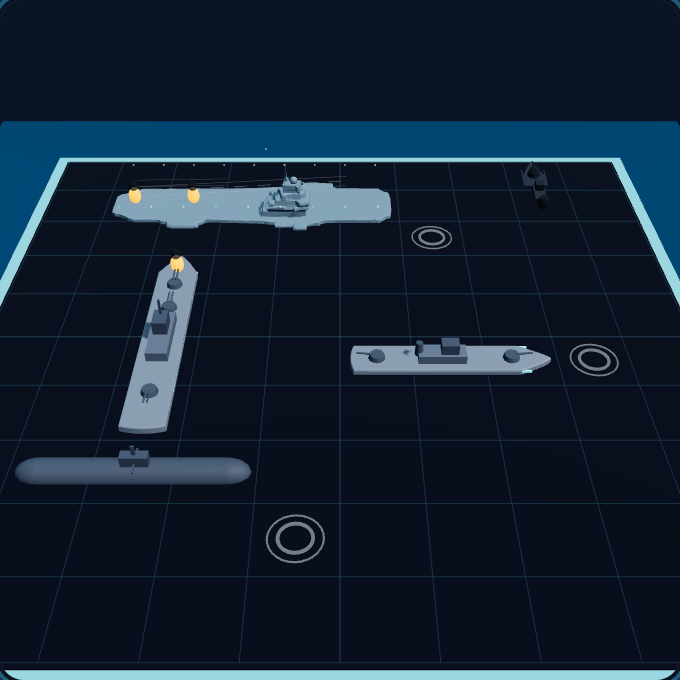
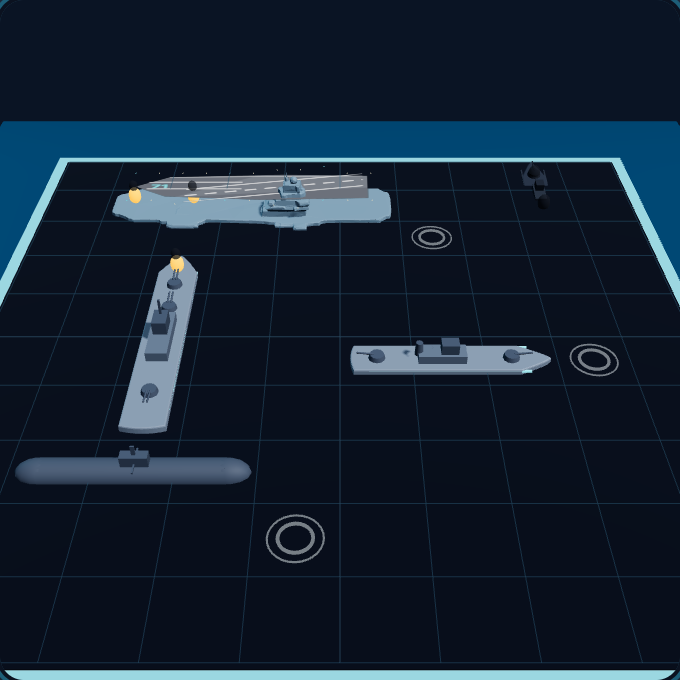
feat(battleship): dark non-skid deck, and lights that land on the hull
Matches references/carrier-modern-top.png: the flight deck is near-black
non-skid, not bare metal, and only the catwalks and island stay haze grey.
From the battle camera the deck is most of what you see, so the paint is
what makes it read as a carrier rather than a pale slab — angled landing
area, dashed centreline with solid edge lines, bow catapult tracks, and the
hull number in the fleet colour as the one piece of team identity.

The running lights were floating beside the bow. They were placed at a fixed
offset from the centreline, which only works if the ship is a rectangle —
off the narrow bow they hung in open water. Each lamp is now dropped onto
the hull by raycast and kept only where it actually lands, trying
progressively inboard stations until one hits. Smaller too: they should read
as pinpricks that bloom into glows later, not beads on a rail.

The decal plane is also inset from the bounding box, which includes the
sponsons and the bow point — at full size the deck paint hung out over open
water past the stern.

Claude-Session: https://claude.ai/code/session_01VSjNa4vSgxuAGHeEcGmsTD

Changed region(s): [[0.2162, 0.2471, 0.5559, 0.3088]]

diff --git a/src/games/battleship/components/three/shipModels.ts b/src/games/battleship/components/three/shipModels.ts
@@ -134,7 +134,8 @@ export function buildModelShip(
   const deckY = measureDeckY(model, dims) ?? dims.y * (spec.deckFrac - spec.sink);
   if (!sunk) {
     hull.add(buildDeckDecal(id, dims.x, dims.z, deckY, skinColor));
-    hull.add(buildNightLights(dims.x, dims.y, dims.z, deckY, skinColor));
+    const lights = buildNightLights(model, dims, skinColor);
+    if (lights) hull.add(lights);
   }
 
   return hull;
@@ -190,45 +191,85 @@ function deckTexture(id: ShipId, skinColor: string): THREE.Texture {
   ctx.clearRect(0, 0, W, H);
 
   if (id === 'carrier') {
-    // Angled landing strip, running bow-left to stern-right across the deck.
+    // The deck itself is near-black non-skid, not bare metal — see
+    // references/carrier-modern-top.png. Only the catwalks and island stay
+    // haze grey, so the paint is what carries the whole read from above.
+    // Bow at -x (left of the canvas), stern at +x.
     ctx.save();
-    ctx.globalAlpha = 0.5;
-    ctx.strokeStyle = '#f2f6ff';
-    ctx.lineWidth = 4;
-    ctx.setLineDash([26, 20]);
     ctx.beginPath();
-    ctx.moveTo(W * 0.08, H * 0.62);
-    ctx.lineTo(W * 0.86, H * 0.36);
-    ctx.stroke();
+    ctx.moveTo(W * 0.03, H * 0.5); // bow point
+    ctx.lineTo(W * 0.16, H * 0.24);
+    ctx.lineTo(W * 0.62, H * 0.17);
+    ctx.lineTo(W * 0.97, H * 0.2);
+    ctx.lineTo(W * 0.97, H * 0.8);
+    ctx.lineTo(W * 0.55, H * 0.85);
+    ctx.lineTo(W * 0.16, H * 0.76);
+    ctx.closePath();
+    ctx.fillStyle = '#23262c';
+    ctx.fill();
 
-    // The strip's solid edges.
-    ctx.setLineDash([]);
-    ctx.globalAlpha = 0.42;
-    ctx.lineWidth = 3;
-    for (const off of [-30, 30]) {
-      ctx.beginPath();
-      ctx.moveTo(W * 0.08, H * 0.62 + off);
-      ctx.lineTo(W * 0.86, H * 0.36 + off);
-      ctx.stroke();
-    }
+    // The angled landing area, a shade lighter where it overlays the deck.
+    ctx.save();
+    ctx.clip();
+    ctx.fillStyle = '#2b2f36';
+    ctx.beginPath();
+    ctx.moveTo(W * 0.2, H * 0.78);
+    ctx.lineTo(W * 0.52, H * 0.2);
+    ctx.lineTo(W * 0.98, H * 0.2);
+    ctx.lineTo(W * 0.98, H * 0.52);
+    ctx.closePath();
+    ctx.fill();
+    ctx.restore();
 
-    // Bow catapult tracks.
-    ctx.globalAlpha = 0.34;
-    ctx.lineWidth = 3;
-    for (const y of [H * 0.34, H * 0.5]) {
-      ctx.beginPath();
-      ctx.moveTo(W * 0.06, y);
-      ctx.lineTo(W * 0.4, y - 8);
-      ctx.stroke();
-    }
+    ctx.strokeStyle = '#e8edf5';
+    ctx.lineCap = 'butt';
 
-    // Touchdown target in the fleet colour — the one spot of skin on the deck.
-    ctx.globalAlpha = 0.75;
-    ctx.strokeStyle = skinColor;
+    // Landing-strip centreline, dashed, running up the angled deck.
+    ctx.globalAlpha = 0.9;
     ctx.lineWidth = 5;
+    ctx.setLineDash([24, 18]);
     ctx.beginPath();
-    ctx.arc(W * 0.66, H * 0.44, 20, 0, Math.PI * 2);
+    ctx.moveTo(W * 0.24, H * 0.74);
+    ctx.lineTo(W * 0.95, H * 0.31);
     ctx.stroke();
+
+    // Its solid edge lines.
+    ctx.setLineDash([]);
+    ctx.lineWidth = 4;
+    ctx.globalAlpha = 0.85;
+    for (const off of [-42, 42]) {
+      ctx.beginPath();
+      ctx.moveTo(W * 0.24, H * 0.74 + off);
+      ctx.lineTo(W * 0.95, H * 0.31 + off);
+      ctx.stroke();
+    }
+
+    // Bow catapult tracks, running straight down the axis.
+    ctx.lineWidth = 4;
+    ctx.globalAlpha = 0.8;
+    for (const y of [H * 0.38, H * 0.56]) {
+      ctx.beginPath();
+      ctx.moveTo(W * 0.08, y);
+      ctx.lineTo(W * 0.46, y);
+      ctx.stroke();
+    }
+
+    // Deck edge stripe.
+    ctx.globalAlpha = 0.5;
+    ctx.lineWidth = 3;
+    ctx.beginPath();
+    ctx.moveTo(W * 0.16, H * 0.245);
+    ctx.lineTo(W * 0.95, H * 0.205);
+    ctx.stroke();
+
+    // Hull number in the fleet colour — the one piece of team identity on an
+    // otherwise authentic deck.
+    ctx.globalAlpha = 0.75;
+    ctx.fillStyle = skinColor;
+    ctx.font = 'bold 34px system-ui, sans-serif';
+    ctx.textAlign = 'center';
+    ctx.textBaseline = 'middle';
+    ctx.fillText('71', W * 0.13, H * 0.5);
     ctx.restore();
   }
 
@@ -247,7 +288,9 @@ function buildDeckDecal(
   skinColor: string,
 ): THREE.Mesh {
   const plane = new THREE.Mesh(
-    new THREE.PlaneGeometry(lengthX * 0.94, widthZ * 0.9),
+    // Kept inside the bounding box: it includes sponsons and the bow point, so
+    // a full-size plane hangs the deck paint out over open water.
+    new THREE.PlaneGeometry(lengthX * 0.88, widthZ * 0.82),
     new THREE.MeshBasicMaterial({
       map: deckTexture(id, skinColor),
       transparent: true,
@@ -269,31 +312,40 @@ function buildDeckDecal(
  * pixels wide.
  */
 function buildNightLights(
-  lengthX: number,
-  heightY: number,
-  widthZ: number,
-  deckY: number,
+  model: THREE.Object3D,
+  dims: THREE.Vector3,
   skinColor: string,
-): THREE.Points {
+): THREE.Points | null {
   const positions: number[] = [];
   const colors: number[] = [];
   const tint = new THREE.Color(skinColor);
-  const warm = new THREE.Color('#ffe6b0');
+  const warm = new THREE.Color('#ffe0a4');
 
-  const perSide = 9;
+  const raycaster = new THREE.Raycaster();
+  const down = new THREE.Vector3(0, -1, 0);
+
+  // Every lamp is dropped onto the hull from above and kept only where it
+  // actually lands. Placing them at a fixed offset from the centreline hung
+  // them in mid-air off the narrow bow — a ship is not a rectangle.
+  const perSide = 11;
   for (let i = 0; i < perSide; i++) {
     const t = (i + 0.5) / perSide;
-    const x = -lengthX / 2 + t * lengthX;
+    const x = (t - 0.5) * dims.x * 0.94;
     for (const side of [-1, 1]) {
-      positions.push(x, deckY + 0.01, side * widthZ * 0.46);
-      // Alternate skin-coloured and warm lamps so the run isn't monotonous.
-      const c = i % 3 === 0 ? tint : warm;
-      colors.push(c.r, c.g, c.b);
+      for (const inset of [0.46, 0.38, 0.3]) {
+        const z = side * dims.z * inset;
+        raycaster.set(new THREE.Vector3(x, dims.y * 2, z), down);
+        const hit = raycaster.intersectObject(model, true)[0];
+        if (!hit) continue;
+        positions.push(x, hit.point.y + 0.004, z);
+        const c = i % 4 === 0 ? tint : warm;
+        colors.push(c.r, c.g, c.b);
+        break; // one lamp per station, at the outermost point that exists
+      }
     }
   }
-  // Masthead light, above the tallest point.
-  positions.push(lengthX * 0.06, heightY * 0.98, 0);
-  colors.push(1, 0.86, 0.7);
+
+  if (positions.length === 0) return null;
 
   const geometry = new THREE.BufferGeometry();
   geometry.setAttribute('position', new THREE.Float32BufferAttribute(positions, 3));
@@ -302,10 +354,12 @@ function buildNightLights(
   return new THREE.Points(
     geometry,
     new THREE.PointsMaterial({
-      size: 0.07,
+      // Small: these should read as pinpricks now and bloom into glows later,
+      // not as beads sitting on the rail.
+      size: 0.035,
       vertexColors: true,
       transparent: true,
-      opacity: 0.95,
+      opacity: 0.9,
       sizeAttenuation: true,
       depthWrite: false,
     }),
